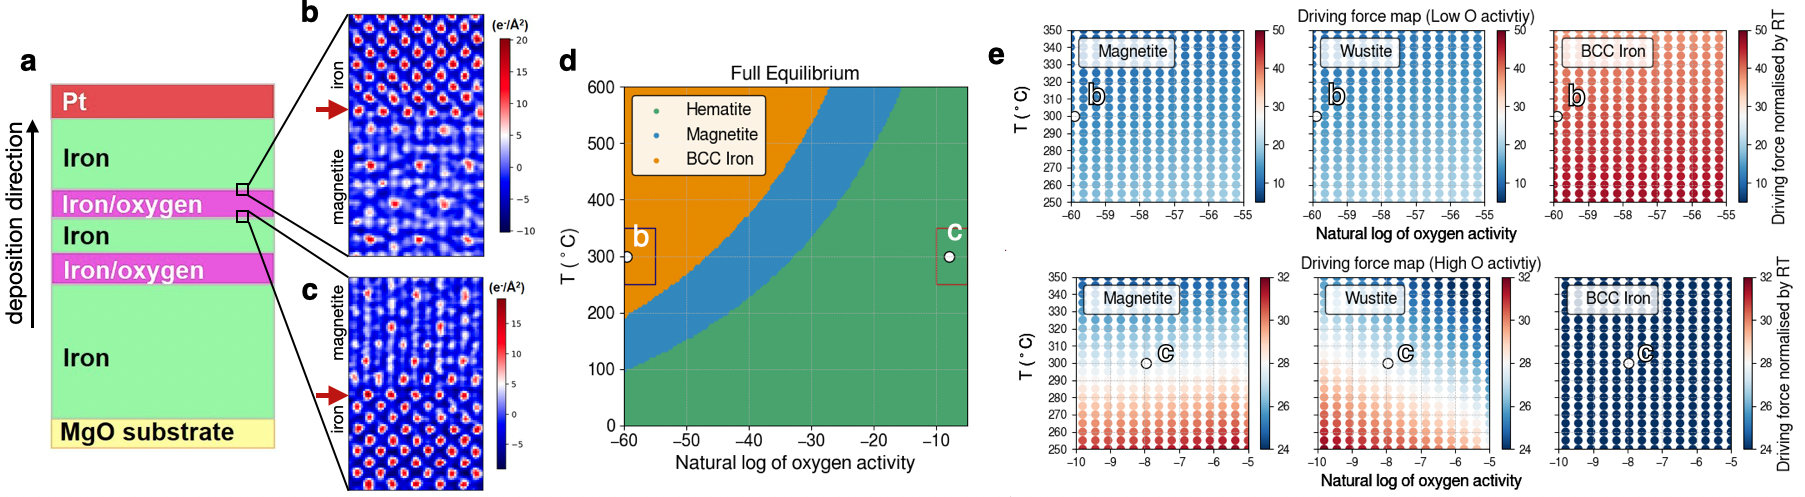
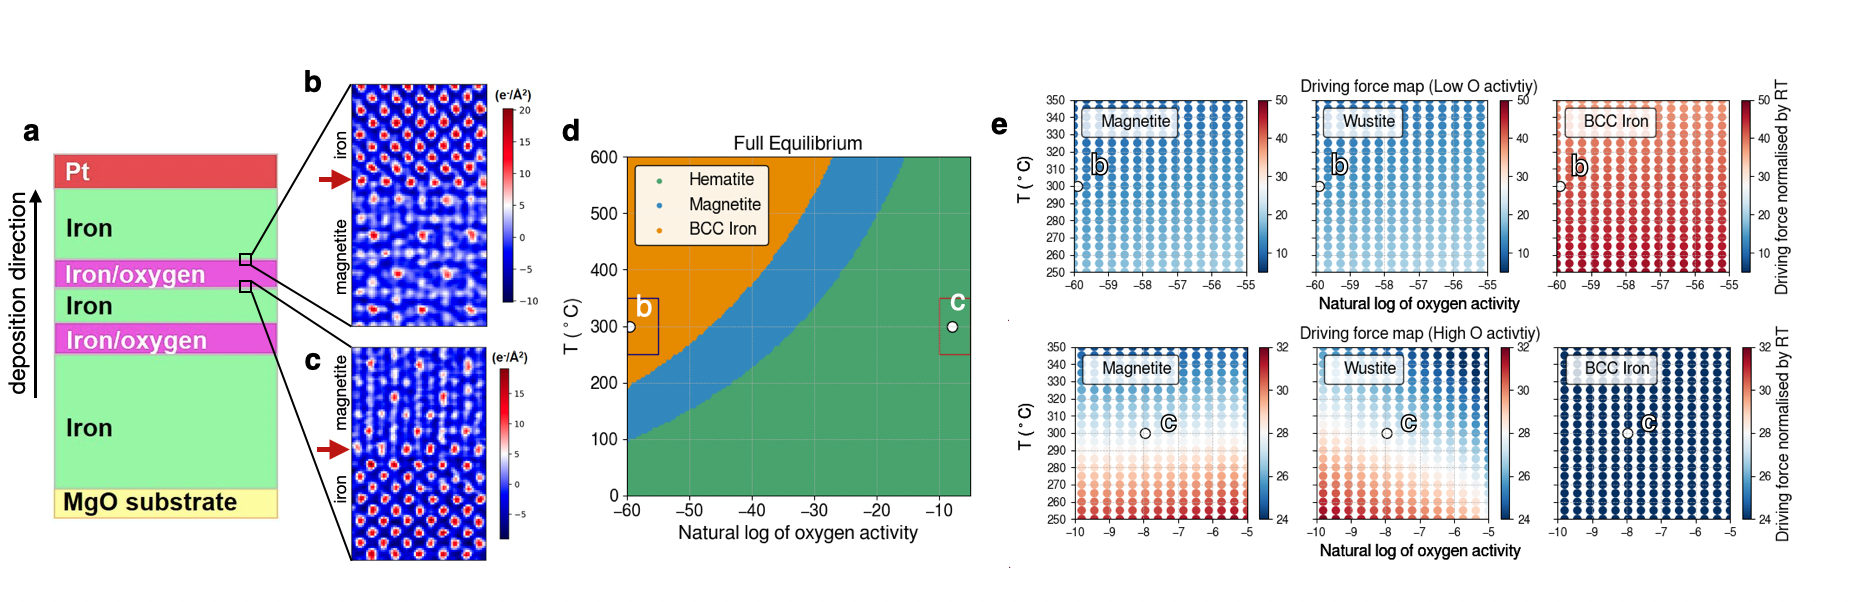
updates

diff --git a/README.md b/README.md
@@ -19,30 +19,56 @@ The presenet context is regarding the physical vapoubour depsotion of BCC iron a
 
 The free energy functions are evaluated in 2 way:
 
-I have tried to implement the three types of Gibbs energy assessments: Full Equilibrium, Molar Gibbs Energy, and Driving Force against the gas phase (normalised).
+I have tried to implement the three types of Gibbs energy assessments: Full Equilibrium, and chemical Driving Force for the nucleation of iron oxide/iron against the gas phase (normalised).
 
 Still need to have another check to ensure the calculations are 100% consistent with Console mode and to determine if we need to try other databases.
 
 - Pressure = 0.5 Pa (5e-6 bar) and only Fe and O
-- Plotting as T(K) and ln(Oxygen activity): referenced to the oxygen gas phase at each temperature
+- Plotting as T(K) and ln(Oxygen activity): referenced to the oxygen in gas phase at each temperature
+
+We performed the computational thermodynamic calcualtios using the CALculation of PHAse Diagrams (CALPHAD) methods regarding the phase transformation between iron and iron oxide ploymorphs. We examine two aspectsL: 1) the equialibrium phase stability
 
 <img src="Fig_4_Summary.png"/>
 
-## Notebook
+## Notebook and macro
 
-- See `IronOxide_TC_sublattice.ipynb` for full calculations and visualisations. This notebook is based on the CEF
+- See `IronOxide_TC_sublattice.ipynb` for full calculations and visualisations. This notebook is based on Gibbs energy evaluations using sublattice models (oxides are treated as solution phase). Free energy is taken from the TCFE13 database.
+
+- One may also check out `IronOxide_TC_stoichiometric.ipynb`, which uses the free energy for oxides from the SSUB substance database. In this case, the oxides are treated as stoichiometric compounds.
+
+- Some Thermo-Calc macros for console mode are included in the `./TC macro` directory.
+
+<!-- In the realm of materials science, particularly when examining oxides, understanding thermodynamic properties is essential. These properties are especially critical for applications such as corrosion resistance in aqueous environments under atmospheric conditions.
+
+There are two categories of oxides in focus: stoichiometric and non-stoichiometric. Stoichiometric oxides have fixed compositions, while non-stoichiometric oxides exhibit variable composition. Theoretical models like Gibbs free energy often help in describing the thermodynamic features of these materials.
+
+### Stoichiometric Oxides
+
+In stoichiometric oxides, the Gibbs free energy is often solely dependent on temperature within certain temperature ranges. Researchers typically use this temperature-dependence to derive specific coefficients that describe thermal properties. These coefficients are either experimentally determined or computed using first-principles calculations.
+
+### Non-stoichiometric Oxides
+
+For non-stoichiometric oxides, things get a bit more complicated due to their 'solution-like' nature, meaning they can exist in various compositions. The Gibbs free energy in this case is calculated using models that consider sublattices—essentially, small sections of the overall crystal structure where particular atoms or ions reside. These models account for multiple aspects, such as:
+
+1. The unreacted elements in their most stable states.
+2. Entropy contributions, which represent the degree of disorder within the system.
+3. Interaction energies between constituents, which could be temperature-dependent.
+
+These components are generally determined by computational methods and offer valuable insights into phenomena like phase stability and transformation pathways in these materials.
+
+By fully understanding both the stoichiometric and non-stoichiometric oxides' thermodynamic properties, researchers can better predict material behavior under various conditions, offering the potential for improved material design. -->
 
 ## Dependencies
 
 - **tc-python by Thermo-Calc**
-- **TCFE**: Using the TCFE13 database for the Corundum, Spinel, HalieBCC phases.
-- **SSUB**: Using the SSUB5 database for the HEMATITE, MAGNETITE, and WUSTITE phases.
+- **TCFE Database**: Using the TCFE13 database for the Corundum, Spinel, Halite, BCC, and Gas phases. The new Gas phase evaluation for the Fe-O system seems to be the same as that in the SSUB database.
+- **SSUB Database**: Using the SSUB5 database for the Hematite, Magnetite, Wüstite, and Gas phases.
 
 ## Visuals
 
 #### Full Equilibrium phase diagram as a function of temperature and O activity
 
-<img src="IronOxide_TC_calculations_TCFE_SSUB_FullEquil.png" width="300"/>
+<img src="IronOxide_TC_sublattice_FullEquil.png" width="300"/>
   
 #### Gibbs energy of phases as a function of temperature and O activity
 
